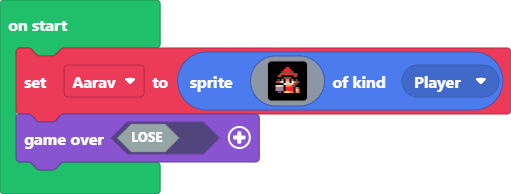
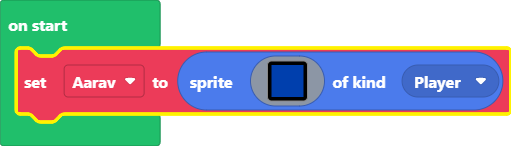
Update main.blocks, main.ts

diff --git a/main.ts b/main.ts
@@ -1,19 +1,19 @@
 let Aarav = sprites.create(img`
-    . . . . . . f f f f . . . . . . 
-    . . . . f f f 2 2 f f f . . . . 
-    . . . f f f 2 2 2 2 f f f . . . 
-    . . f f f e e e e e e f f f . . 
-    . . f f e 2 2 2 2 2 2 e e f . . 
-    . . f e 2 f f f f f f 2 e f . . 
-    . . f f f f e e e e f f f f . . 
-    . f f e f b f 4 4 f b f e f f . 
-    . f e e 4 1 f d d f 1 4 e e f . 
-    . . f f f f d d d d d e e f . . 
-    . f d d d d f 4 4 4 e e f . . . 
-    . f b b b b f 2 2 2 2 f 4 e . . 
-    . f b b b b f 2 2 2 2 f d 4 . . 
-    . . f c c f 4 5 5 4 4 f 4 4 . . 
-    . . . f f f f f f f f . . . . . 
-    . . . . . f f . . f f . . . . . 
+    8 8 8 8 8 8 8 8 8 8 8 8 8 8 8 8 
+    8 8 8 8 8 8 8 8 8 8 8 8 8 8 8 8 
+    8 8 8 8 8 8 8 8 8 8 8 8 8 8 8 8 
+    8 8 8 8 8 8 8 8 8 8 8 8 8 8 8 8 
+    8 8 8 8 8 8 8 8 8 8 8 8 8 8 8 8 
+    8 8 8 8 8 8 8 8 8 8 8 8 8 8 8 8 
+    8 8 8 8 8 8 8 8 8 8 8 8 8 8 8 8 
+    8 8 8 8 8 8 8 8 8 8 8 8 8 8 8 8 
+    8 8 8 8 8 8 8 8 8 8 8 8 8 8 8 8 
+    8 8 8 8 8 8 8 8 8 8 8 8 8 8 8 8 
+    8 8 8 8 8 8 8 8 8 8 8 8 8 8 8 8 
+    8 8 8 8 8 8 8 8 8 8 8 8 8 8 8 8 
+    8 8 8 8 8 8 8 8 8 8 8 8 8 8 8 8 
+    8 8 8 8 8 8 8 8 8 8 8 8 8 8 8 8 
+    8 8 8 8 8 8 8 8 8 8 8 8 8 8 8 8 
+    8 8 8 8 8 8 8 8 8 8 8 8 8 8 8 8 
     `, SpriteKind.Player)
 game.over(false)
